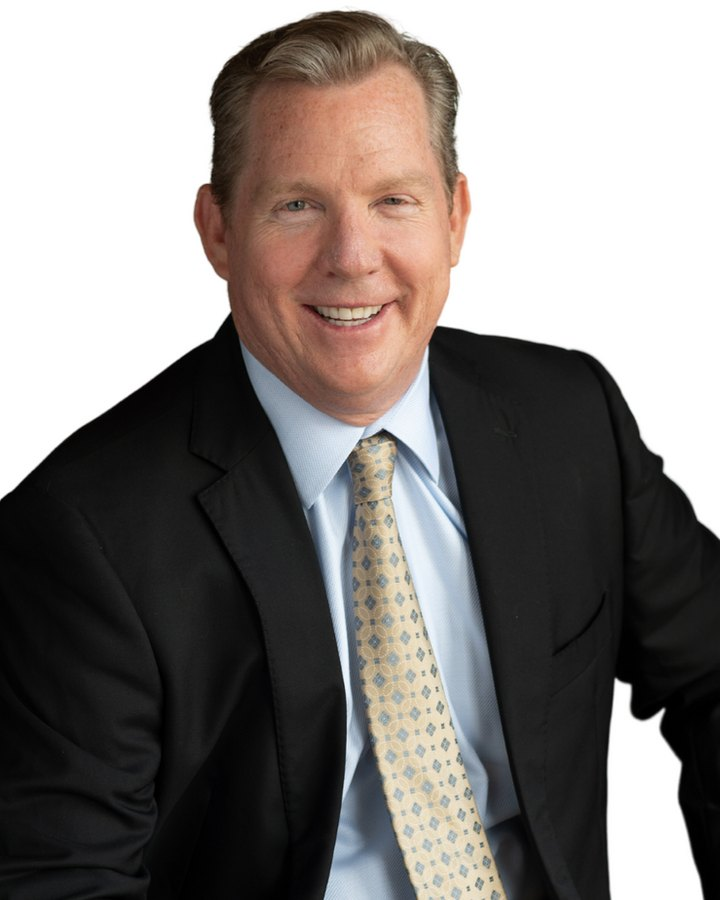
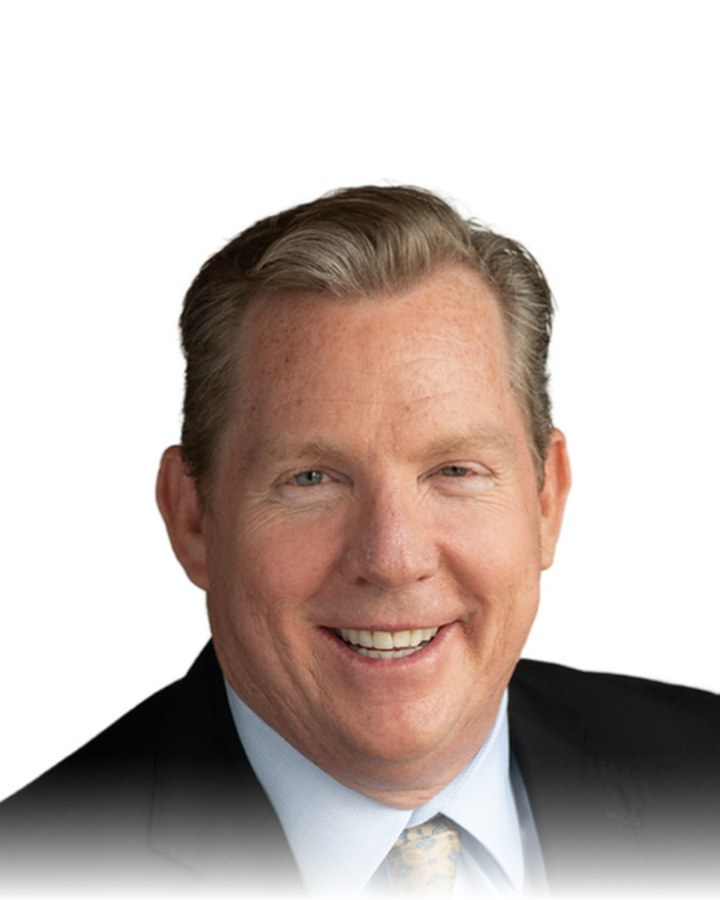
Matching owner headshot crops
Claude-Session: https://claude.ai/code/session_01MwMjSN39aLZJN6SsGsi24Z

diff --git a/about.html b/about.html
@@ -109,13 +109,13 @@ img,video{max-width:100%}
 </div>
 <div style="display: grid; grid-template-columns: repeat(auto-fit, minmax(280px, 1fr)); gap: 40px">
 <div style="display: flex; flex-direction: column; gap: 12px; border-top: 1px solid #1A1A1A; padding-top: 24px">
-<img loading="lazy" src="assets/michael-bossart.jpg" alt="Michael Bossart" style="width: 100%; aspect-ratio: 4 / 5; object-fit: cover; display: block; background: #EDE7DE">
+<img loading="lazy" src="assets/michael-bossart.jpg" alt="Michael Bossart" style="width: 100%; aspect-ratio: 4 / 5; object-fit: cover; display: block; background: #FFFFFF">
 <h3 style="margin: 0; font-family: 'Cormorant Garamond', serif; font-weight: 400; font-size: 28px">Michael Bossart</h3>
 <span style="font-size: 11px; letter-spacing: 0.3em; color: #7A1620">OWNER · BROKER</span>
 <p style="margin: 0; font-size: 15px; line-height: 1.7; color: #4A4540">Michael is the operating principal and broker of record for Keller Williams Memorial. Since taking the helm in 2008, when the office had 151 agents, he has grown it into one of Houston&rsquo;s largest brokerages. He was named Houston Agent Magazine&rsquo;s 2019 Managing Broker of the Year, and earlier led Fidelity National Title&rsquo;s San Antonio division. As broker for Memorial Leasing &amp; Management, he oversees licensing, policies and every owner&rsquo;s trust funds.</p>
 </div>
 <div style="display: flex; flex-direction: column; gap: 12px; border-top: 1px solid #1A1A1A; padding-top: 24px">
-<img loading="lazy" src="assets/roger-aad.jpg" alt="Roger Aad" style="width: 100%; aspect-ratio: 4 / 5; object-fit: cover; display: block; background: #EDE7DE">
+<img loading="lazy" src="assets/roger-aad.jpg" alt="Roger Aad" style="width: 100%; aspect-ratio: 4 / 5; object-fit: cover; display: block; background: #FFFFFF">
 <h3 style="margin: 0; font-family: 'Cormorant Garamond', serif; font-weight: 400; font-size: 28px">Roger Aad</h3>
 <span style="font-size: 11px; letter-spacing: 0.3em; color: #7A1620">OWNER</span>
 <p style="margin: 0; font-size: 15px; line-height: 1.7; color: #4A4540">Roger is president and team leader of Keller Williams Memorial, where he leads the office&rsquo;s operations and staff and consults with top-producing agents on growing their productivity and profitability. He is also a luxury agent with the Certified Luxury Home Marketing Specialist (CLHMS) and GUILD designations, holds the Certified International Property Specialist (CIPS) designation and speaks Arabic and French, so he knows the high-end homes and international clients many of our owners work with. He brings that same focus on service and systems to Memorial Leasing &amp; Management, and he is the first person owners and agents talk to as the company grows.</p>
